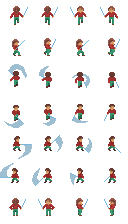
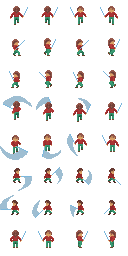
Improve more Deep player sprites

diff --git a/src/deep/main.c b/src/deep/main.c
@@ -46,19 +46,19 @@ typedef struct Animation {
 
 static const Frame player_frames[] = {
 	/* Idle */
-	[0x00] = { 0x00, 25, 0, 100, 0 },
+	[0x00] = { 0x00, 29, 0, 100, 0 },
 
 	/* Idle Up */
-	[0x01] = { 0x01, 24, 0, 100, 0 },
+	[0x01] = { 0x01, 28, 0, 100, 0 },
 
 	/* Idle Down */
-	[0x02] = { 0x02, 25, 0, 100, 0 },
+	[0x02] = { 0x02, 29, 0, 100, 0 },
 
 	/* Idle Right */
-	[0x03] = { 0x03, 26, 0, 100, 0 },
+	[0x03] = { 0x03, 30, 0, 100, 0 },
 
 	/* Idle Left */
-	[0x04] = { 0x04, 27, 0, 100, 0 },
+	[0x04] = { 0x04, 31, 0, 100, 0 },
 
 	/* Walk Up Loop */
 	[0x10] = { 0x11, 0, 0, 150, TAG_WALKING },
@@ -75,34 +75,34 @@ static const Frame player_frames[] = {
 	[0x23] = { 0x20, 7, 0, 125, TAG_WALKING },
 
 	/* Walk Left Loop */
-	[0x28] = { 0x29, 4, 1, 125, TAG_WALKING },
-	[0x29] = { 0x2a, 5, 1, 125, TAG_WALKING },
-	[0x2a] = { 0x2b, 6, 1, 125, TAG_WALKING },
-	[0x2b] = { 0x28, 7, 1, 125, TAG_WALKING },
+	[0x28] = { 0x29, 8, 0, 125, TAG_WALKING },
+	[0x29] = { 0x2a, 9, 0, 125, TAG_WALKING },
+	[0x2a] = { 0x2b, 10, 0, 125, TAG_WALKING },
+	[0x2b] = { 0x28, 11, 0, 125, TAG_WALKING },
 
 	/* Attack Up */
-	[0x30] = { 0x31, 8, 0, 50, TAG_ATTACKING },
-	[0x31] = { 0x32, 9, 0, 50, TAG_ATTACKING },
-	[0x32] = { 0x33, 10, 0, 100, TAG_ATTACKING },
-	[0x33] = { 0x33, 11, 0, 100, 0 },
+	[0x30] = { 0x31, 12, 0, 50, TAG_ATTACKING },
+	[0x31] = { 0x32, 13, 0, 50, TAG_ATTACKING },
+	[0x32] = { 0x33, 14, 0, 50, TAG_ATTACKING },
+	[0x33] = { 0x33, 15, 0, 100, 0 },
 
 	/* Attack Down */
-	[0x38] = { 0x39, 12, 0, 50, TAG_ATTACKING },
-	[0x39] = { 0x3a, 13, 0, 50, TAG_ATTACKING },
-	[0x3a] = { 0x3b, 14, 0, 100, TAG_ATTACKING },
-	[0x3b] = { 0x3b, 15, 0, 100, 0 },
+	[0x38] = { 0x39, 16, 0, 50, TAG_ATTACKING },
+	[0x39] = { 0x3a, 17, 0, 50, TAG_ATTACKING },
+	[0x3a] = { 0x3b, 18, 0, 50, TAG_ATTACKING },
+	[0x3b] = { 0x3b, 19, 0, 100, 0 },
 
 	/* Attack Right */
-	[0x40] = { 0x41, 16, 0, 50, TAG_ATTACKING },
-	[0x41] = { 0x42, 17, 0, 50, TAG_ATTACKING },
-	[0x42] = { 0x43, 18, 0, 100, TAG_ATTACKING },
-	[0x43] = { 0x43, 19, 0, 100, 0 },
+	[0x40] = { 0x41, 20, 0, 50, TAG_ATTACKING },
+	[0x41] = { 0x42, 21, 0, 50, TAG_ATTACKING },
+	[0x42] = { 0x43, 22, 0, 50, TAG_ATTACKING },
+	[0x43] = { 0x43, 23, 0, 100, 0 },
 
 	/* Attack Left */
-	[0x48] = { 0x49, 20, 0, 50, TAG_ATTACKING },
-	[0x49] = { 0x4a, 21, 0, 50, TAG_ATTACKING },
-	[0x4a] = { 0x4b, 22, 0, 100, TAG_ATTACKING },
-	[0x4b] = { 0x4b, 23, 0, 100, 0 },
+	[0x48] = { 0x49, 24, 0, 50, TAG_ATTACKING },
+	[0x49] = { 0x4a, 25, 0, 50, TAG_ATTACKING },
+	[0x4a] = { 0x4b, 26, 0, 50, TAG_ATTACKING },
+	[0x4b] = { 0x4b, 27, 0, 100, 0 },
 };
 
 static uint8_t player_idles[] = {
